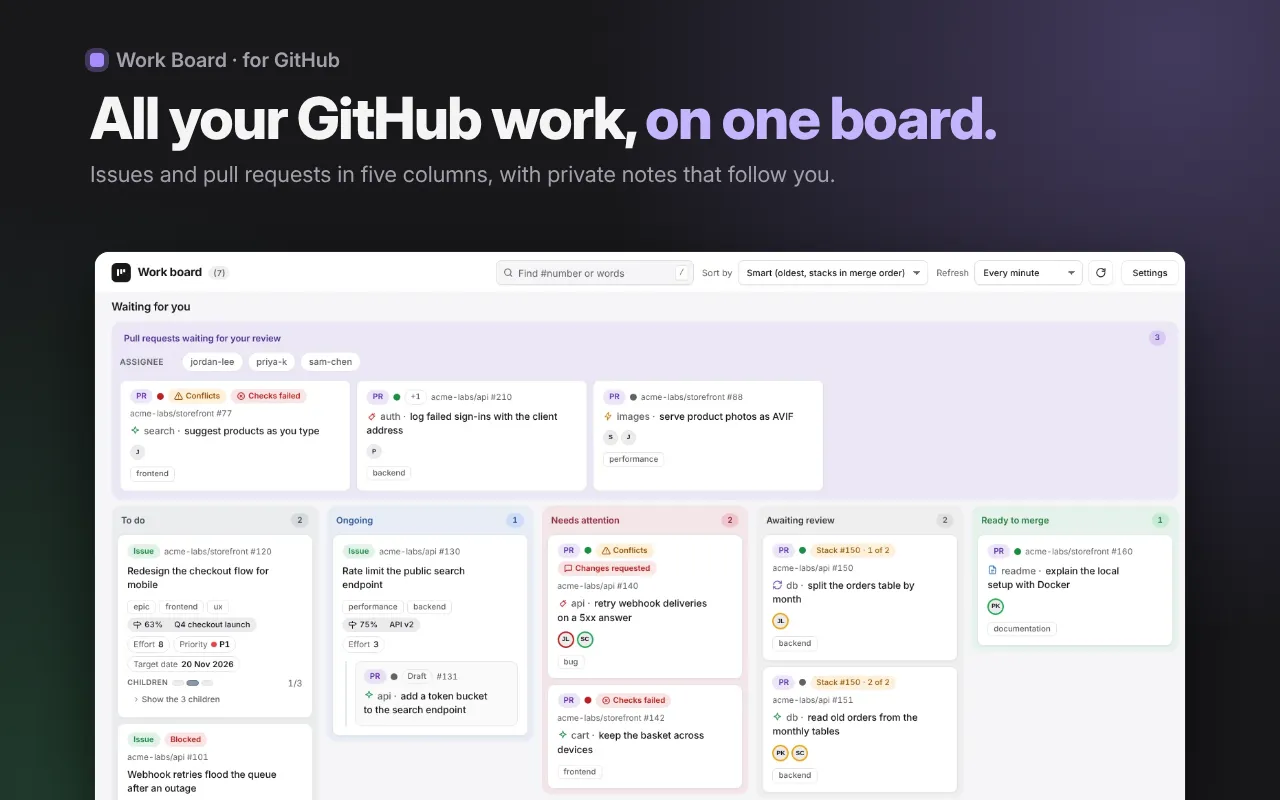
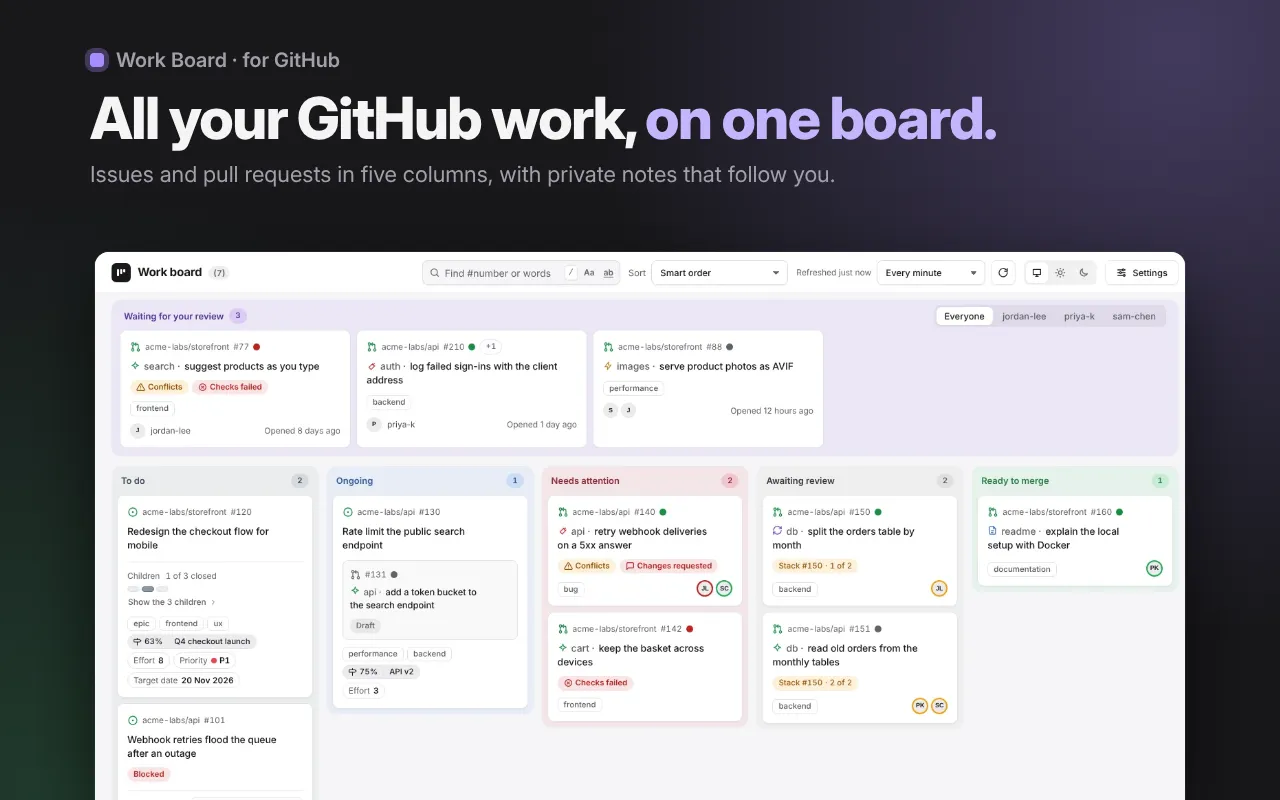
chore(github-work-board): retake the portfolio image with the finished design
The board gained one filter bar, link sections and new card details, so the
image is taken again and its strips follow the new rows.

Claude-Session: https://claude.ai/code/session_011YsmyhWamp7naPHthzrLPA

diff --git a/resources/images/projects/sources/githubWorkBoard/index.html b/resources/images/projects/sources/githubWorkBoard/index.html
@@ -8,7 +8,7 @@
   no private work appears. The page has no demo mode: to take it again, answer
   the GitHub calls with fictional data in the browser, then capture the page.
   The frame below shows three strips of it (header, review row, columns) and
-  leaves out the filter rows, which carry little at card size.
+  leaves out the filter bar, which carries little at card size.
 -->
 <html lang="en">
   <head>
@@ -103,15 +103,15 @@
         height: 42px;
         background-position: 0 0;
       }
-      /* Source rows 80-385: "Waiting for you" and the review row. */
+      /* Source rows 80-330: "Waiting for your review" and the review row. */
       .strip.review {
-        height: 210px;
+        height: 172px;
         background-position: 0 -55px;
       }
-      /* Source rows 488 onward: the five columns. */
+      /* Source rows 400 onward: the five columns. */
       .strip.columns {
-        height: 296px;
-        background-position: 0 -336px;
+        height: 334px;
+        background-position: 0 -275px;
       }
     </style>
   </head>
